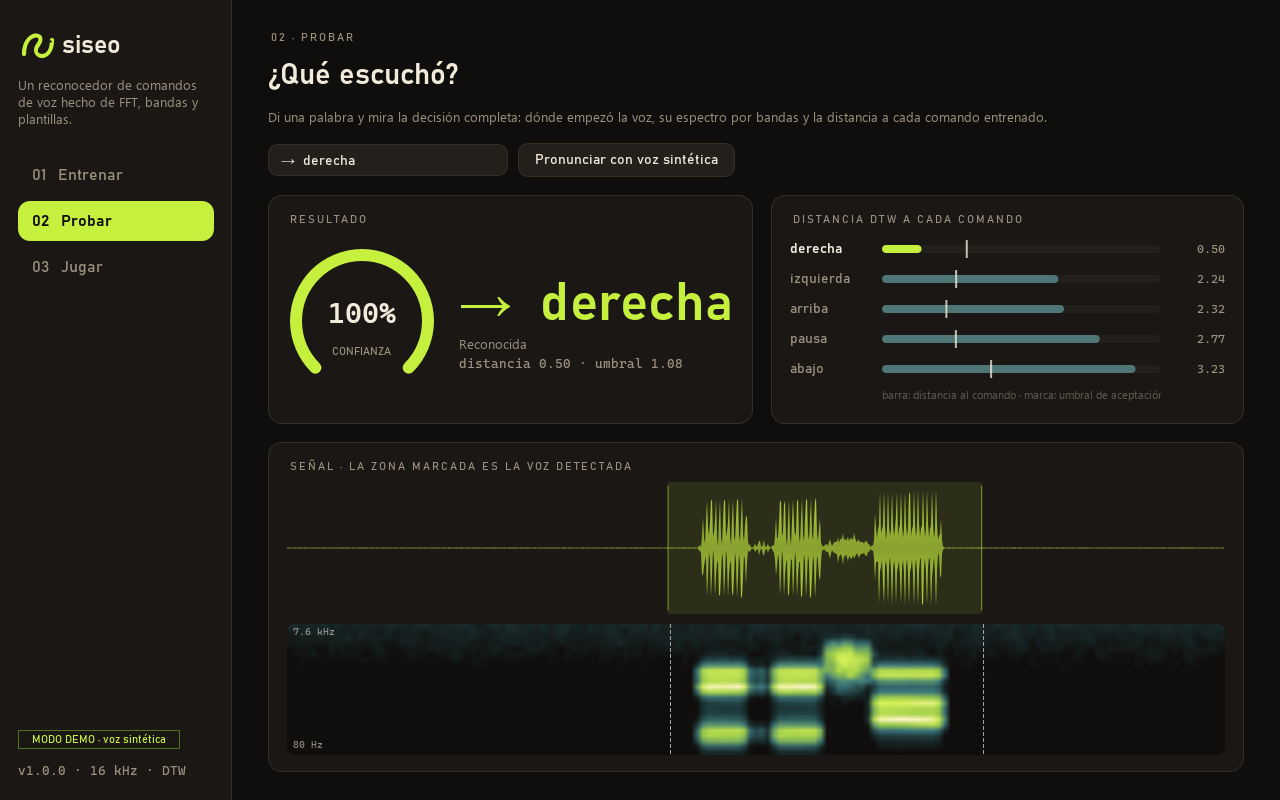
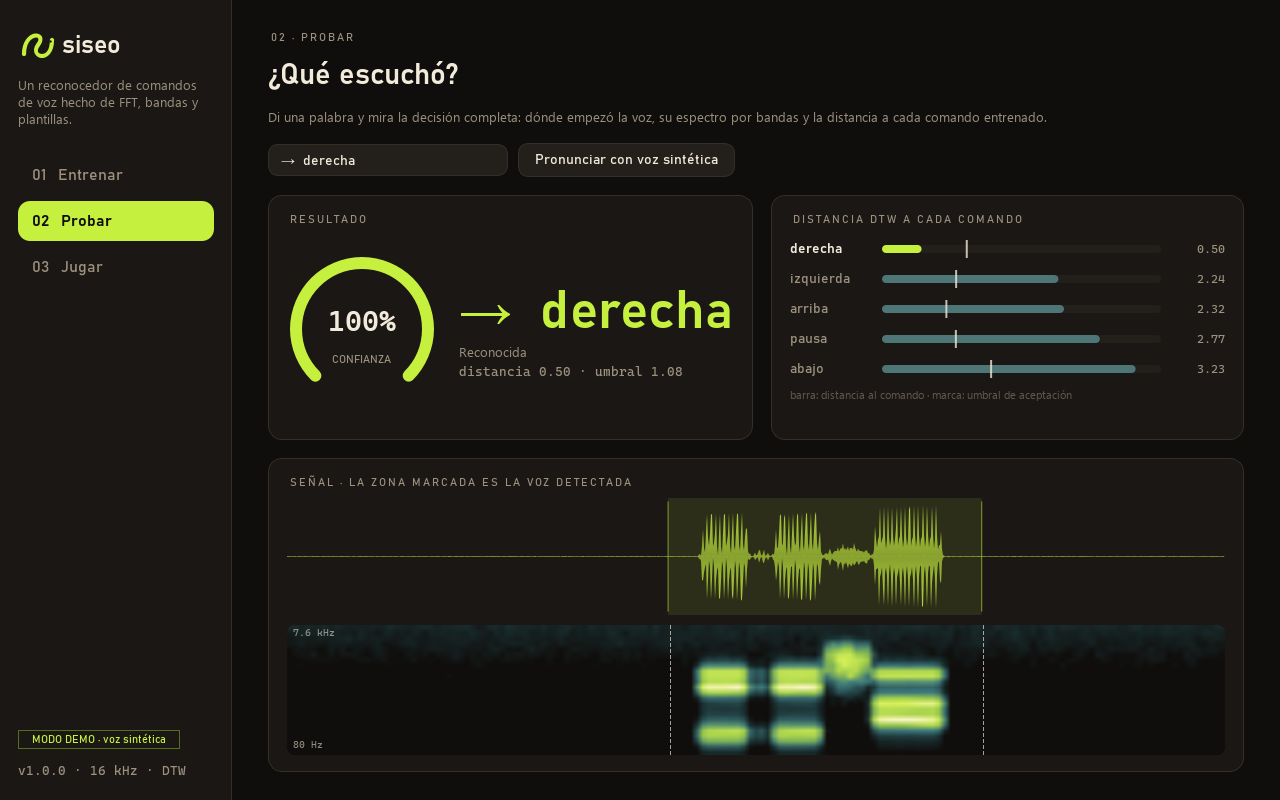
fix(ui): keep the DTW legend caption inside its card

diff --git a/src/siseo/ui/widgets/readouts.py b/src/siseo/ui/widgets/readouts.py
@@ -57,10 +57,10 @@ class DistanceBars(QWidget):
         self.scores: list[Score] = []
         self.winner: str | None = None
         self.setSizePolicy(QSizePolicy.Policy.Expanding, QSizePolicy.Policy.Fixed)
-        self.setFixedHeight(self.ROW * 5 + 22)
+        self.setFixedHeight(self.ROW * 5 + 38)
 
     def sizeHint(self) -> QSize:
-        return QSize(320, self.ROW * 5 + 22)
+        return QSize(320, self.ROW * 5 + 38)
 
     def set_scores(self, scores: Sequence[Score], winner: str | None) -> None:
         self.scores, self.winner = list(scores), winner
@@ -103,7 +103,8 @@ class DistanceBars(QWidget):
             p.drawText(QRectF(w - value_w, y, value_w, 20), Qt.AlignmentFlag.AlignVCenter | Qt.AlignmentFlag.AlignRight, f"{s.distance:.2f}")
         p.setPen(theme.color(theme.FAINT))
         p.setFont(theme.font("body", 8))
-        p.drawText(QRectF(label_w, self.ROW * len(self.scores) + 2, track_w, 16), Qt.AlignmentFlag.AlignLeft,
+        p.drawText(QRectF(0, self.ROW * len(self.scores) + 2, w, 34),
+                   Qt.AlignmentFlag.AlignLeft | Qt.TextFlag.TextWordWrap,
                    "barra: distancia al comando · marca: umbral de aceptación")
         p.end()
 
